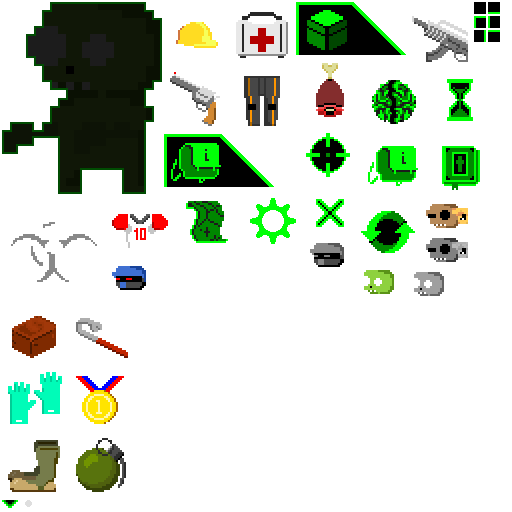
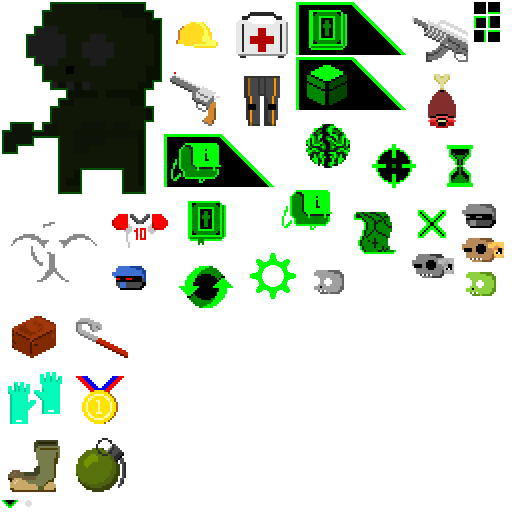
recovered journal

Changed region(s): [[0.3438, 0.0, 1.0, 0.625], [0.7188, 0.2812, 0.8125, 0.375]]

diff --git a/client/hud/Journal.cpp b/client/hud/Journal.cpp
@@ -8,13 +8,21 @@
 #include "../mission/MissionClient.hpp"
 
 Journal::Journal(Hud* _hud)
-    : HudMenu(_hud, 0, 0, 300, 720, bit::Element::AnchorType::Right)
+    : HudMenu(_hud, 0, 0, 691, 728, bit::Element::AnchorType::Right)
 {
+    scaleStyle = ScaleStyle::PowerOfTwo;
+    managesOpacity = true;
+
     journalEntries = new bit::Label(10, 10, 0, 0, bit::Element::AnchorType::TopLeft);
-    journalEntries->setSfFontSize(24);
+    journalEntries->setSfFontSize(Hud::font_primarySize);
     journalEntries->setSfFont(hud->journalFont);
-    journalEntries->normalColor = sf::Color::White;
+    journalEntries->normalColor = Hud::font_primaryColor;
+    journalEntries->scaleStyle = ScaleStyle::PowerOfTwo;
     addChild(journalEntries);
+
+    // Icon
+    naviconSprite = hud->state->rogueZombieGame->spriteLoader->getSprite("JournalNavicon");
+    naviconQuadIndex = hud->interfaceVertexMap.requestVertexIndex();
 }
 
 void Journal::update(sf::RenderWindow &window, sf::Time &gameTime)
@@ -24,15 +32,15 @@ void Journal::update(sf::RenderWindow &window, sf::Time &gameTime)
     LevelClient* levelClient = hud->state->levelClient;
     if(levelClient->playerCharacter)
     {
-        std::string entry("Journal\n");
+        std::string entry("Objectives\n\n");
         for(auto iterator = levelClient->playerCharacter->missionClients.begin(); iterator != levelClient->playerCharacter->missionClients.end(); iterator++)
         {
             // Level 1
             MissionClient* m = &iterator->second;
             if(m->schema.isComplete)
-                entry += "- " + JournalEntry::getTitle(m->schema.journalEntry) + " - Complete\n";
+                entry += JournalEntry::getTitle(m->schema.journalEntry) + " - Complete\n";
             else
-                entry += "- " + JournalEntry::getTitle(m->schema.journalEntry) + "\n";
+                entry += JournalEntry::getTitle(m->schema.journalEntry) + "\n";
 
             // Level 2
             for(auto iterator2 = iterator->second.childMissions.begin(); iterator2 != iterator->second.childMissions.end(); iterator2++)
@@ -47,6 +55,26 @@ void Journal::update(sf::RenderWindow &window, sf::Time &gameTime)
         journalEntries->setSfFontString(entry);
         journalEntries->opacity = opacity;
     }
+}
+
+void Journal::updateTargets(sf::RenderWindow &window, sf::Time &gameTime)
+{
+    HudMenu::updateTargets(window, gameTime);
+
+    // Navicon
+    bit::Vertex3* naviconQuad = &hud->interfaceVertexMap.vertexArray[naviconQuadIndex];
+    bit::VertexHelper::colorQuad(naviconQuad, sf::Color(255, 255, 255, opacity * 255));
+}
+
+void Journal::updateReals(sf::RenderWindow &window, sf::Time &gameTime)
+{
+    HudMenu::updateReals(window, gameTime);
+
+    // Navicon
+    float naviconZ = Hud::getDrawDepth(Hud::zindex_frames);
+    bit::Vertex3* naviconQuad = &hud->interfaceVertexMap.vertexArray[naviconQuadIndex];
+    naviconSprite->applyToQuad(naviconQuad);
+    bit::VertexHelper::positionQuad(naviconQuad, left, top - naviconSprite->height * elementScale, naviconZ, naviconSprite->width, naviconSprite->height, elementScale);
 }
 
 void Journal::hide()
@@ -64,5 +92,5 @@ void Journal::show()
     clearEffects();
     relativePosition.x = targetWidth;
     immediateEffect(new bit::MoveEffect(300, bit::Easing::OutQuart, -targetWidth, 0));
-    immediateEffect(new bit::FadeEffect(300, 1));
+    immediateEffect(new bit::FadeEffect(300, Hud::popupOpacity));
 }

diff --git a/server/Player.cpp b/server/Player.cpp
@@ -4,6 +4,7 @@
 #include "ServerEvent.hpp"
 #include "GameplayServer.hpp"
 #include "items/Item.hpp"
+#include "mission/Mission.hpp"
 #include "Character.hpp"
 
 Player::Player()
@@ -54,24 +55,24 @@ void Player::unsetCharacter()
 void Player::setupPlayerCharacter()
 {
     // Mission number 1
-    //Mission* root = new Mission();
-    //root->load(getNextMissionId(), LogicalType::Selector, Mission::GenerationType::Scripted, JournalEntry::Entry::TestMissionRoot);
-    //
-    //Mission* healthMission = new Mission();
-    //healthMission->load(getNextMissionId(), LogicalType::Selector, Mission::GenerationType::Scripted, JournalEntry::Entry::GetDoubleHealth);
-    //healthMission->assignRequirement([] (Character* c) -> bool {
-    //    return (c->schema.health >= 200);
-    //});
-    //root->assignChildMission(healthMission);
-    //
-    //Mission* levelMission = new Mission();
-    //levelMission->load(getNextMissionId(), LogicalType::Selector, Mission::GenerationType::Scripted, JournalEntry::Entry::FindLevelTwo);
-    //levelMission->assignRequirement([] (Character* c) -> bool {
-    //    return (c->level == &c->level->server->levels[1]);
-    //});
-    //root->assignChildMission(levelMission);
-    //
-    //p->character->assignMission(root);
+    Mission* root = new Mission();
+    root->load(level->server->getNextMissionId(), LogicalType::Sequence, Mission::GenerationType::Scripted, JournalEntry::Entry::TestMissionRoot);
+    
+    Mission* healthMission = new Mission();
+    healthMission->load(level->server->getNextMissionId(), LogicalType::Selector, Mission::GenerationType::Scripted, JournalEntry::Entry::GetDoubleHealth);
+    healthMission->assignRequirement([] (Character* c) -> bool {
+        return (c->schema.health >= 200);
+    });
+    root->assignChildMission(healthMission);
+    
+    Mission* levelMission = new Mission();
+    levelMission->load(level->server->getNextMissionId(), LogicalType::Selector, Mission::GenerationType::Scripted, JournalEntry::Entry::FindLevelTwo);
+    levelMission->assignRequirement([] (Character* c) -> bool {
+        return (c->level && c->level->id == 2);
+    });
+    root->assignChildMission(levelMission);
+    
+    character->assignMission(root);
 
     // Items
     Item* magnum = Item::create(Item::Type::Magnum357, level->server->getNextItemId());

diff --git a/client/hud/OptionsBar.cpp b/client/hud/OptionsBar.cpp
@@ -41,16 +41,16 @@ OptionsBar::OptionsBar(Hud* _hud)
     addChild(options);
     originX += options->sprite->width + xpadding;
 
-    //journal = new HudElement(originX, 20, 0, 0, Element::AnchorType::TopLeft, std::bind(&Hud::typicalElementControl, hud, std::placeholders::_1,std::placeholders::_2, std::placeholders::_3));
-    //journal->load(hud, std::string("optionbar_journal"));
-    //journal->onActivate = [_hud] (Element* e) {
-    //    if(_hud->state->mode == StateGamePlay::Mode::Journal)
-    //        _hud->state->changeMode(StateGamePlay::Mode::Free);
-    //    else
-    //        _hud->state->changeMode(StateGamePlay::Mode::Journal);
-    //};
-    //addChild(journal);
-    //originX += journal->sprite->width + xpadding;
+    journal = new HudElement(originX, 0, 0, 0, Element::AnchorType::TopLeft, std::bind(&Hud::typicalElementControl, hud, std::placeholders::_1,std::placeholders::_2, std::placeholders::_3));
+    journal->load(hud, std::string("optionbar_journal"));
+    journal->onActivate = [_hud] (Element* e) {
+        if(_hud->state->mode == StateGamePlay::Mode::Journal)
+            _hud->state->changeMode(StateGamePlay::Mode::Free);
+        else
+            _hud->state->changeMode(StateGamePlay::Mode::Journal);
+    };
+    addChild(journal);
+    originX += journal->sprite->width + xpadding;
 
     //character = new HudElement(originX, 20, 0, 0, Element::AnchorType::TopLeft, std::bind(&Hud::typicalElementControl, hud, std::placeholders::_1,std::placeholders::_2, std::placeholders::_3));
     //character->load(hud, std::string("optionbar_character"));

diff --git a/client/StateGamePlay.cpp b/client/StateGamePlay.cpp
@@ -112,7 +112,6 @@ void StateGamePlay::changeMode(Mode _mode)
 {
     if(_mode != mode)
     {
-        displayMessage(std::string("Changed modes"));
         if(mode != Mode::Init)
         {
             modeExit[mode]();
@@ -128,6 +127,7 @@ void StateGamePlay::exitInventoryModes()
     {
         case Mode::Inventory:
         case Mode::Loot:
+        case Mode::Journal:
             changeMode(Mode::Free);
             break;
     }

diff --git a/client/hud/Journal.hpp b/client/hud/Journal.hpp
@@ -16,8 +16,14 @@ public:
     Journal(Hud* hud);
 
     bit::Label* journalEntries;
+    unsigned int naviconQuadIndex;
+    bit::Sprite* naviconSprite;
 
     virtual void update(sf::RenderWindow &window, sf::Time &gameTime);
+
+    void updateTargets(sf::RenderWindow &window, sf::Time &gameTime);
+
+    void updateReals(sf::RenderWindow &window, sf::Time &gameTime);
 
     virtual void hide();
 

diff --git a/client/hud/OptionsBar.hpp b/client/hud/OptionsBar.hpp
@@ -18,7 +18,7 @@ public:
     Hud* hud;
     //HudElement* primary;
     HudElement* options;
-    //HudElement* journal;
+    HudElement* journal;
     //HudElement* character;
     HudElement* inventory;
     HudElement* map;
